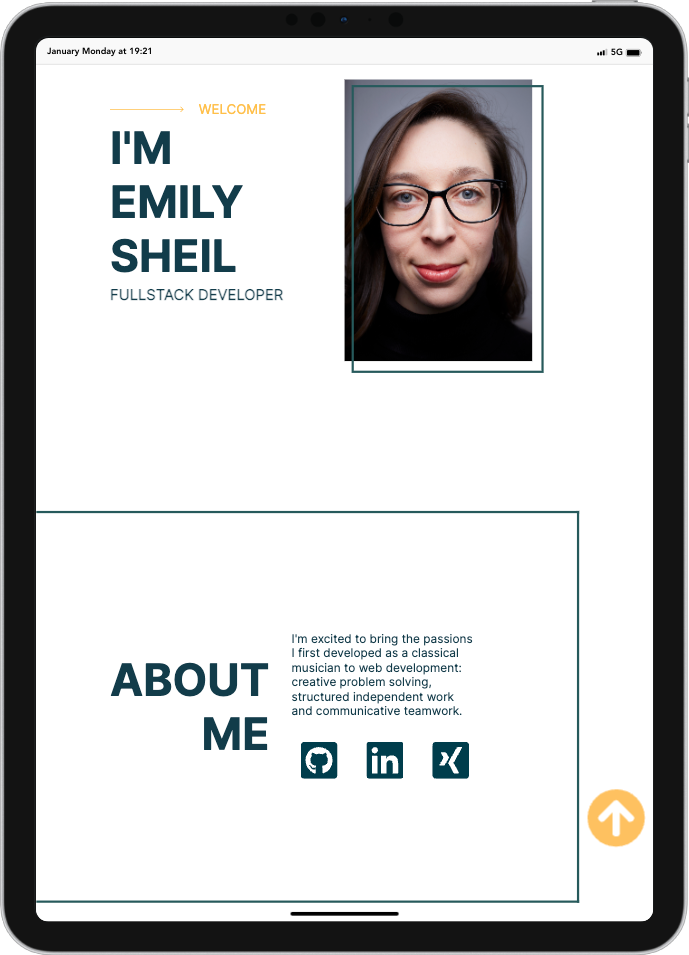
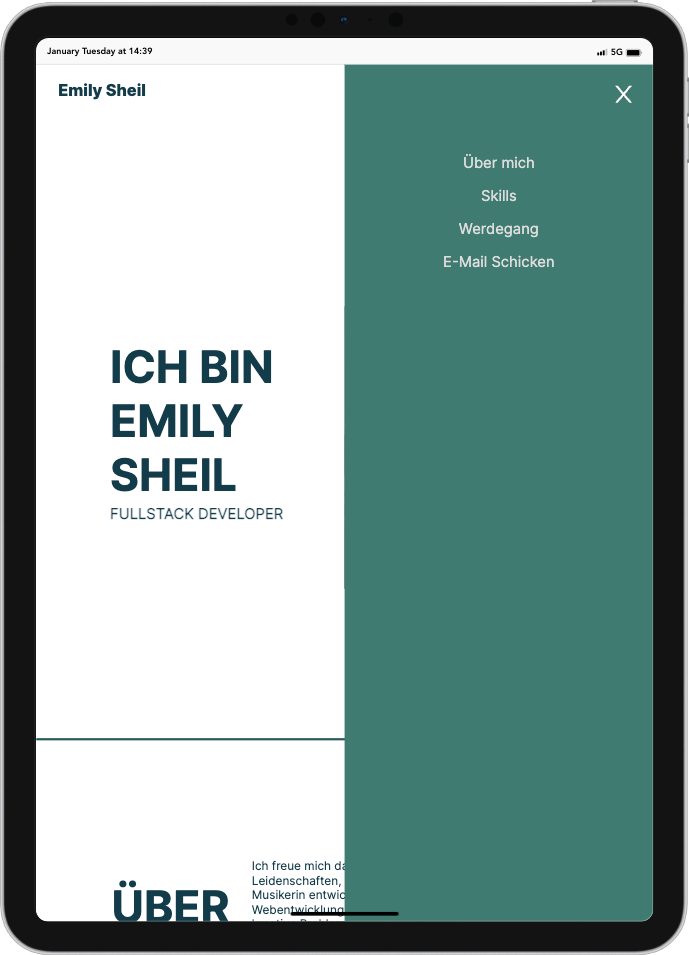
updates to projects

diff --git a/portfolio-frontend/src/components/projectsComponent/projectData.js b/portfolio-frontend/src/components/projectsComponent/projectData.js
@@ -37,7 +37,15 @@ import weatherCode2 from "../../assets/img/detail-img/weatherCode2.png"
 import weatherDetail1 from "../../assets/img/detail-img/weatherDetail1.png"
 import weatherDetail2 from "../../assets/img/detail-img/weatherDetail2.png"
 import portfolioEmail1 from "../../assets/img/detail-img/portfolioEmail1.png"
+import portfolioCode1 from "../../assets/img/detail-img/portfolioCode1.png"
+import portfolioCode2 from "../../assets/img/detail-img/portfolioCode2.png"
 import portfolioCode3 from "../../assets/img/detail-img/portfolioCode3.png"
+import portfolioDetail1 from "../../assets/img/detail-img/portfolioDetail1.png"
+import portfolioDetail2 from "../../assets/img/detail-img/portfolioDetail2.png"
+import kinoDetail1 from "../../assets/img/detail-img/kinoDetail1.png"
+import kinoDetail2 from "../../assets/img/detail-img/kinoDetail2.png"
+import kinoCode1 from "../../assets/img/detail-img/kinoCode1.png"
+import kinoCode2 from "../../assets/img/detail-img/kinoCode2.png"
 
 export const projects = [
     {
@@ -154,10 +162,10 @@ export const projects = [
         },
         "V2": {
             "de": [
-                "", ""
+                "derzeit nicht in Planung"
             ],
             "en": [
-                "", ""
+                "not currently planned"
             ]
         }
     },
@@ -263,24 +271,24 @@ export const projects = [
             "#nodemailer"
         ],
         "imageGrid": [
-            ,
-            ,
-            ,
-        ],
+            kinoCode1,
+            kinoDetail1,
+            kinoDetail2,
+            kinoCode2],
         "links": {
             "liveSite": "",
             "repo": "https://github.com/emily-s-codes/cinema.git",
         },
         "description": {
-            "de": "",
-            "en": ""
+            "de": "Der größte Teil dieses Projekts ist die Back-End-Funktionalität. Die ursprüngliche Aufgabe bestand darin, einen Sitzplatz mit einem Klick zu reservieren. Ich habe es so erweitert, dass der Kunde die Sitzplatzauswahl (nur im Front-End) bearbeiten kann, bevor er den Kauf abschließt (d. h. im Back-End speichert).",
+            "en": "The bulk of this project is the back-end functionality. The original assignment was to reserve a seat with one click. I extended it such that the customer can edit the seat selection (front-end only) before finalizing a purchase (i.e. saving to the back-end)."
         },
         "V2": {
             "de": [
-                "", ""
+                "Reservierungskalender implementieren", "Admin Log-in einbauen", "Kunden Log-in einbauen", "Seite und Funktionalität zur Verwaltung einer bestehenden Reservierung erstellen", "cooles Design finden und umsetzen", "Fehlerbehebung auf der Admin-Seite: 'available seats' und 'income' funktionieren nicht zuverlässig", "Ladezeit nach 'Confirm' minimieren", "CRUD-Methoden im Bakend in async/await Format aktualisieren"
             ],
             "en": [
-                "implement a reservation calendar", "customer log-in", "create page and functionality to manage an existing reservation", "find and implement a cool design"
+                "implement a reservation calendar", "admin log-in", "customer log-in", "create page and functionality to manage an existing reservation", "find and implement a cool design", "fix bugs on the admin page: available seats and total income are unreliable", "reduce the wait time after clicking 'confirm'", "update CRUD methods in backend in async/await format"
             ]
         }
     },
@@ -294,8 +302,10 @@ export const projects = [
             "#nodemailer"
         ],
         "imageGrid": [
-            ,
-            ,
+            portfolioDetail2,
+            portfolioCode1,
+            portfolioCode2,
+            portfolioDetail1,
             portfolioEmail1,
             portfolioCode3
         ],
@@ -304,15 +314,15 @@ export const projects = [
             "repo": "https://github.com/emily-s-codes/portfolio-en-de.git",
         },
         "description": {
-            "de": "",
-            "en": ""
+            "de": "Für mein Portfolio habe ich ein von unserem Kurs bereitgestelltes Desktop-Design verwendet und es erweitert, um es responsive zu machen, und es mit React, Express und Node neu aufgebaut. Ich fügte Funktionalität wie das Burger-Menü und den 'nach-oben-scrollen' Pfeil hinzu.",
+            "en": "For my portfolio I used a desktop-design provided by our course and expanded it to make it responsive and rebuilt it using React, Express and Node. I added features like the Burger Menu and the return-to-top arrow."
         },
         "V2": {
             "de": [
-                "", ""
+                "E-Mail-Funktionalität aus dem Betatest (Nodemailer) in den funktionalen E-Mail-Versand", "CV-Download (in der aktuell angezeigten Sprache) auf Klick", "Burger-Menü Links von der Detail-Seite korrigieren"
             ],
             "en": [
-                "", ""
+                "move email functionality out of beta testing with nodemailer and into functional emailing", "CV download on click, in language currently shown", "fix so that the links from the detail page lead to the homepage"
             ]
         }
     }

diff --git a/portfolio-frontend/src/components/burgerMenu/BurgerMenu.jsx b/portfolio-frontend/src/components/burgerMenu/BurgerMenu.jsx
@@ -7,10 +7,26 @@ const BurgerMenu = ({ burgerActive, setBurgerActive, english }) => {
         <section className={burgerActive ? "burgerSection showBurger" : "burgerSection hideBurger"}>
             <AiOutlineClose className="burger-X" size={"40"} color="white" onClick={() => setBurgerActive(!burgerActive)} />
             <ul>
-                <li><AnchorLink href="#about">{english ? "About Me" : "Über mich"}</AnchorLink></li>
-                <li><AnchorLink href="#techstack">Skills</AnchorLink></li>
-                <li><AnchorLink href="#experience">{english ? "My Journey" : "Werdegang"}</AnchorLink></li>
-                <li className="navContact"><AnchorLink href="#emailMe">{english ? "Email Me" : "E-Mail Schicken"}</AnchorLink></li>
+                <li onClick={() => setBurgerActive(!burgerActive)}>
+                    <AnchorLink href="#about"
+                    >{english ?
+                        "About Me"
+                        : "Über mich"}
+                    </AnchorLink>
+                </li>
+                <li onClick={() => setBurgerActive(!burgerActive)}>
+                    <AnchorLink href="#techstack"
+                    >Skills</AnchorLink>
+                </li>
+                <li onClick={() => setBurgerActive(!burgerActive)}>
+                    <AnchorLink href="#experience">{english ? "My Journey" : "Werdegang"}
+                    </AnchorLink>
+                </li>
+                <li className="navContact" onClick={() => setBurgerActive(!burgerActive)}>
+                    <AnchorLink href="#emailMe">{english ?
+                        "Email Me" :
+                        "E-Mail Schicken"}</AnchorLink>
+                </li>
             </ul>
         </section>
     );

diff --git a/portfolio-frontend/src/pages/ProjectPage.css b/portfolio-frontend/src/pages/ProjectPage.css
@@ -5,7 +5,7 @@
 }
 
 .projectHero img {
-    width: 60%;
+    width: 70%;
 }
 
 .projectDescription {
@@ -45,7 +45,7 @@
     display: grid;
     grid-template-columns: repeat(2, 1fr);
     margin: 100px 150px;
-    gap: 10px;
+    gap: 30px;
 }
 
 .imageGridimg {
@@ -54,9 +54,69 @@
     object-fit: contain;
     object-position: center;
     overflow: hidden;
-    border-radius: 10px;
 }
 
 .version2Section {
     margin: 0 150px;
+}
+
+@media only screen and (max-width:991px) {
+
+    .projectDescription,
+    .projectGrid {
+        margin: 50px 100px 150px 100px;
+    }
+
+    .version2Section {
+        margin: 50px 100px;
+    }
+
+    .projectGrid {
+        gap: 30px;
+    }
+
+    .imageGridimg {
+        width: 100%;
+    }
+}
+
+@media only screen and (max-width:767px) {
+
+    .projectDescription,
+    .projectGrid {
+        margin: 50px 50px 100px 50px;
+    }
+
+    .version2Section {
+        margin: 50px 50px 100px 50px;
+    }
+
+    .version2Section h2 {
+        font-size: 4rem;
+    }
+
+}
+
+@media only screen and (min-width: 1200px) {
+
+    .projectHero,
+    .projectDescription,
+    .projectGrid,
+    .version2Section {
+        margin: 100px 250px;
+    }
+
+    .projectGrid {
+        gap: 50px;
+    }
+}
+
+@media only screen and (min-width: 1300px) {
+
+    .projectHero,
+    .projectDescription,
+    .projectGrid,
+    .version2Section {
+        margin: 100px 350px;
+    }
 }

diff --git a/portfolio-frontend/src/pages/ProjectPage.jsx b/portfolio-frontend/src/pages/ProjectPage.jsx
@@ -10,7 +10,7 @@ const Project = ({ english }) => {
     console.log(project)
     console.log(params.id)
     return (
-        <div>
+        <main className="projectMain">
             <section className="projectHero">
                 <img src={project[0].img} alt={project[0].name} />
             </section>
@@ -41,7 +41,7 @@ const Project = ({ english }) => {
             </section>
             {/* <Techstack /> */}
             <Projects />
-        </div>
+        </main>
     );
 }
 

diff --git a/portfolio-frontend/src/components/emailMe/EmailMe.css b/portfolio-frontend/src/components/emailMe/EmailMe.css
@@ -94,12 +94,12 @@
 
 @media only screen and (min-width: 1200px) {
     .emailMeSection {
-        margin: 200px 250px;
+        padding: 200px 250px;
     }
 }
 
 @media only screen and (min-width: 1300px) {
     .emailMeSection {
-        margin: 200px 350px;
+        padding: 200px 350px;
     }
 }

diff --git a/portfolio-frontend/src/components/footer/Footer.css b/portfolio-frontend/src/components/footer/Footer.css
@@ -39,7 +39,7 @@ footer a:hover {
 
 @media only screen and (min-width: 1200px) {
     footer ul {
-        margin: 50px 0 50px 600px;
-        padding: 20px 200px 20px 250px;
+        margin: 50px 0 50px 400px;
+        padding: 20px 200px 20px 150px;
     }
 }

diff --git a/portfolio-server/app.js b/portfolio-server/app.js
@@ -4,7 +4,6 @@ import morgan from 'morgan'
 import nodemailer from 'nodemailer'
 import multer from "multer"
 import "./config/config.js"
-import fs from "fs"
 
 const PORT = process.env.PORT
 const app = express()
